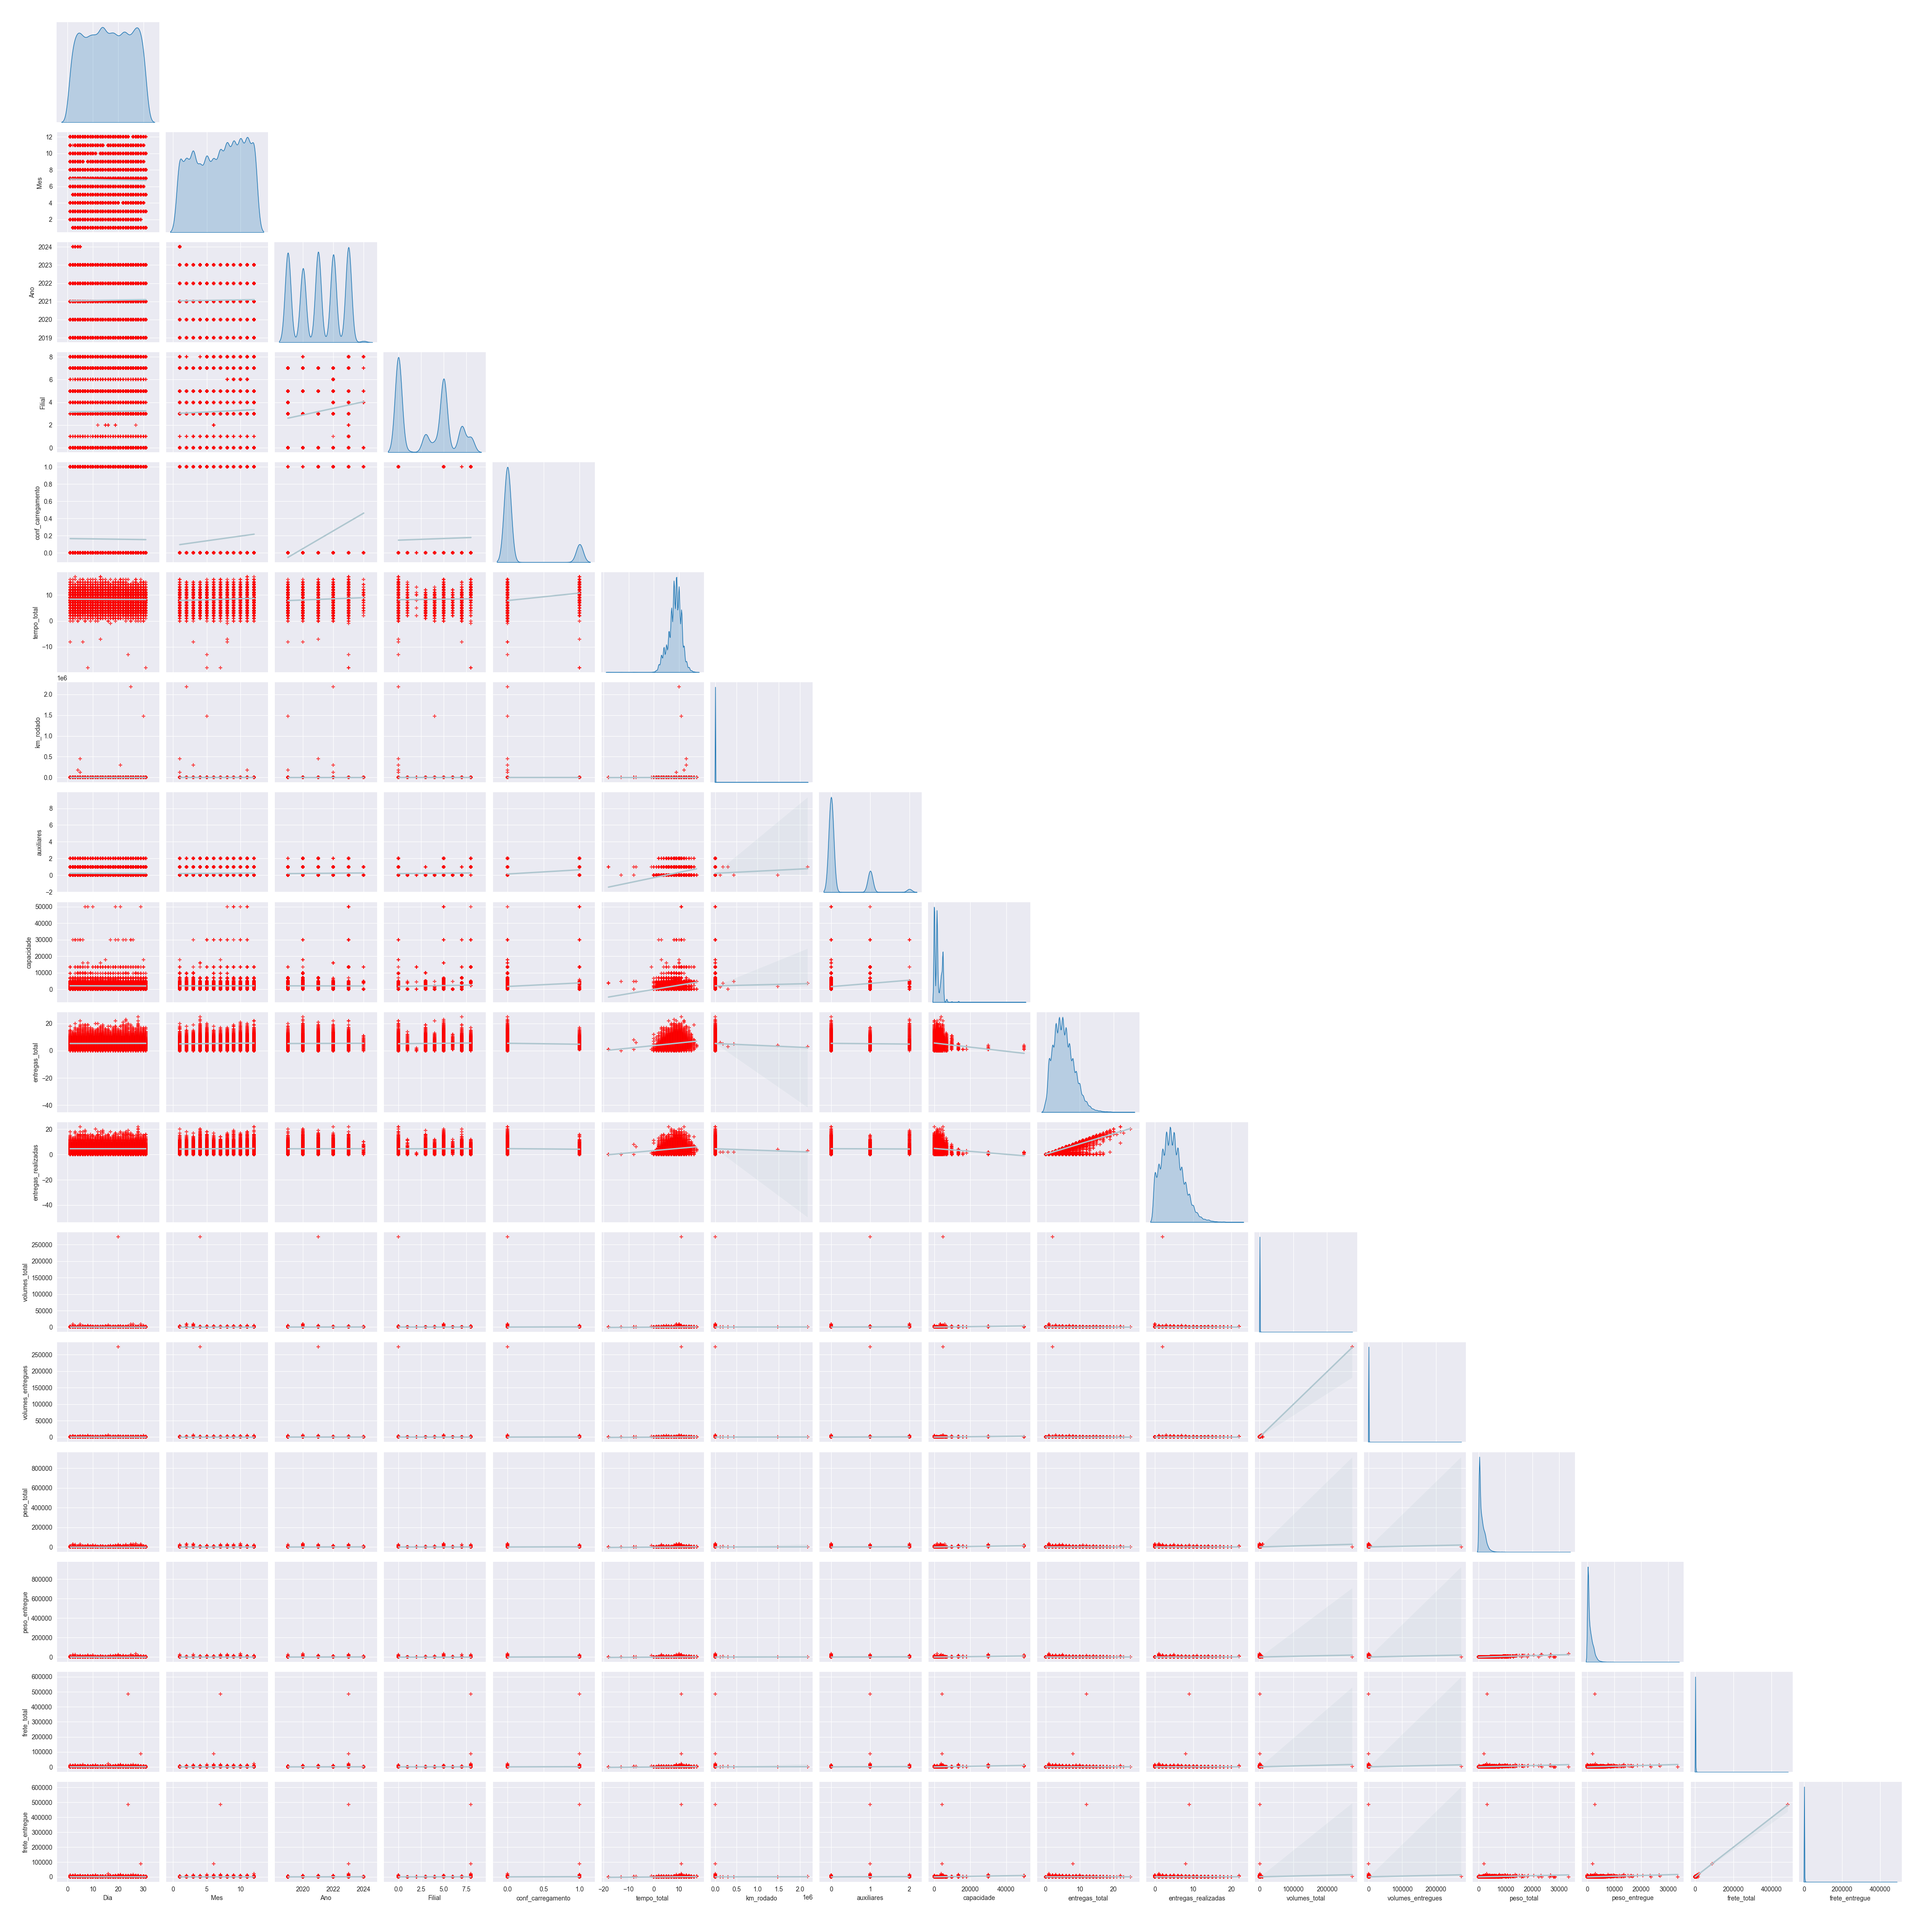
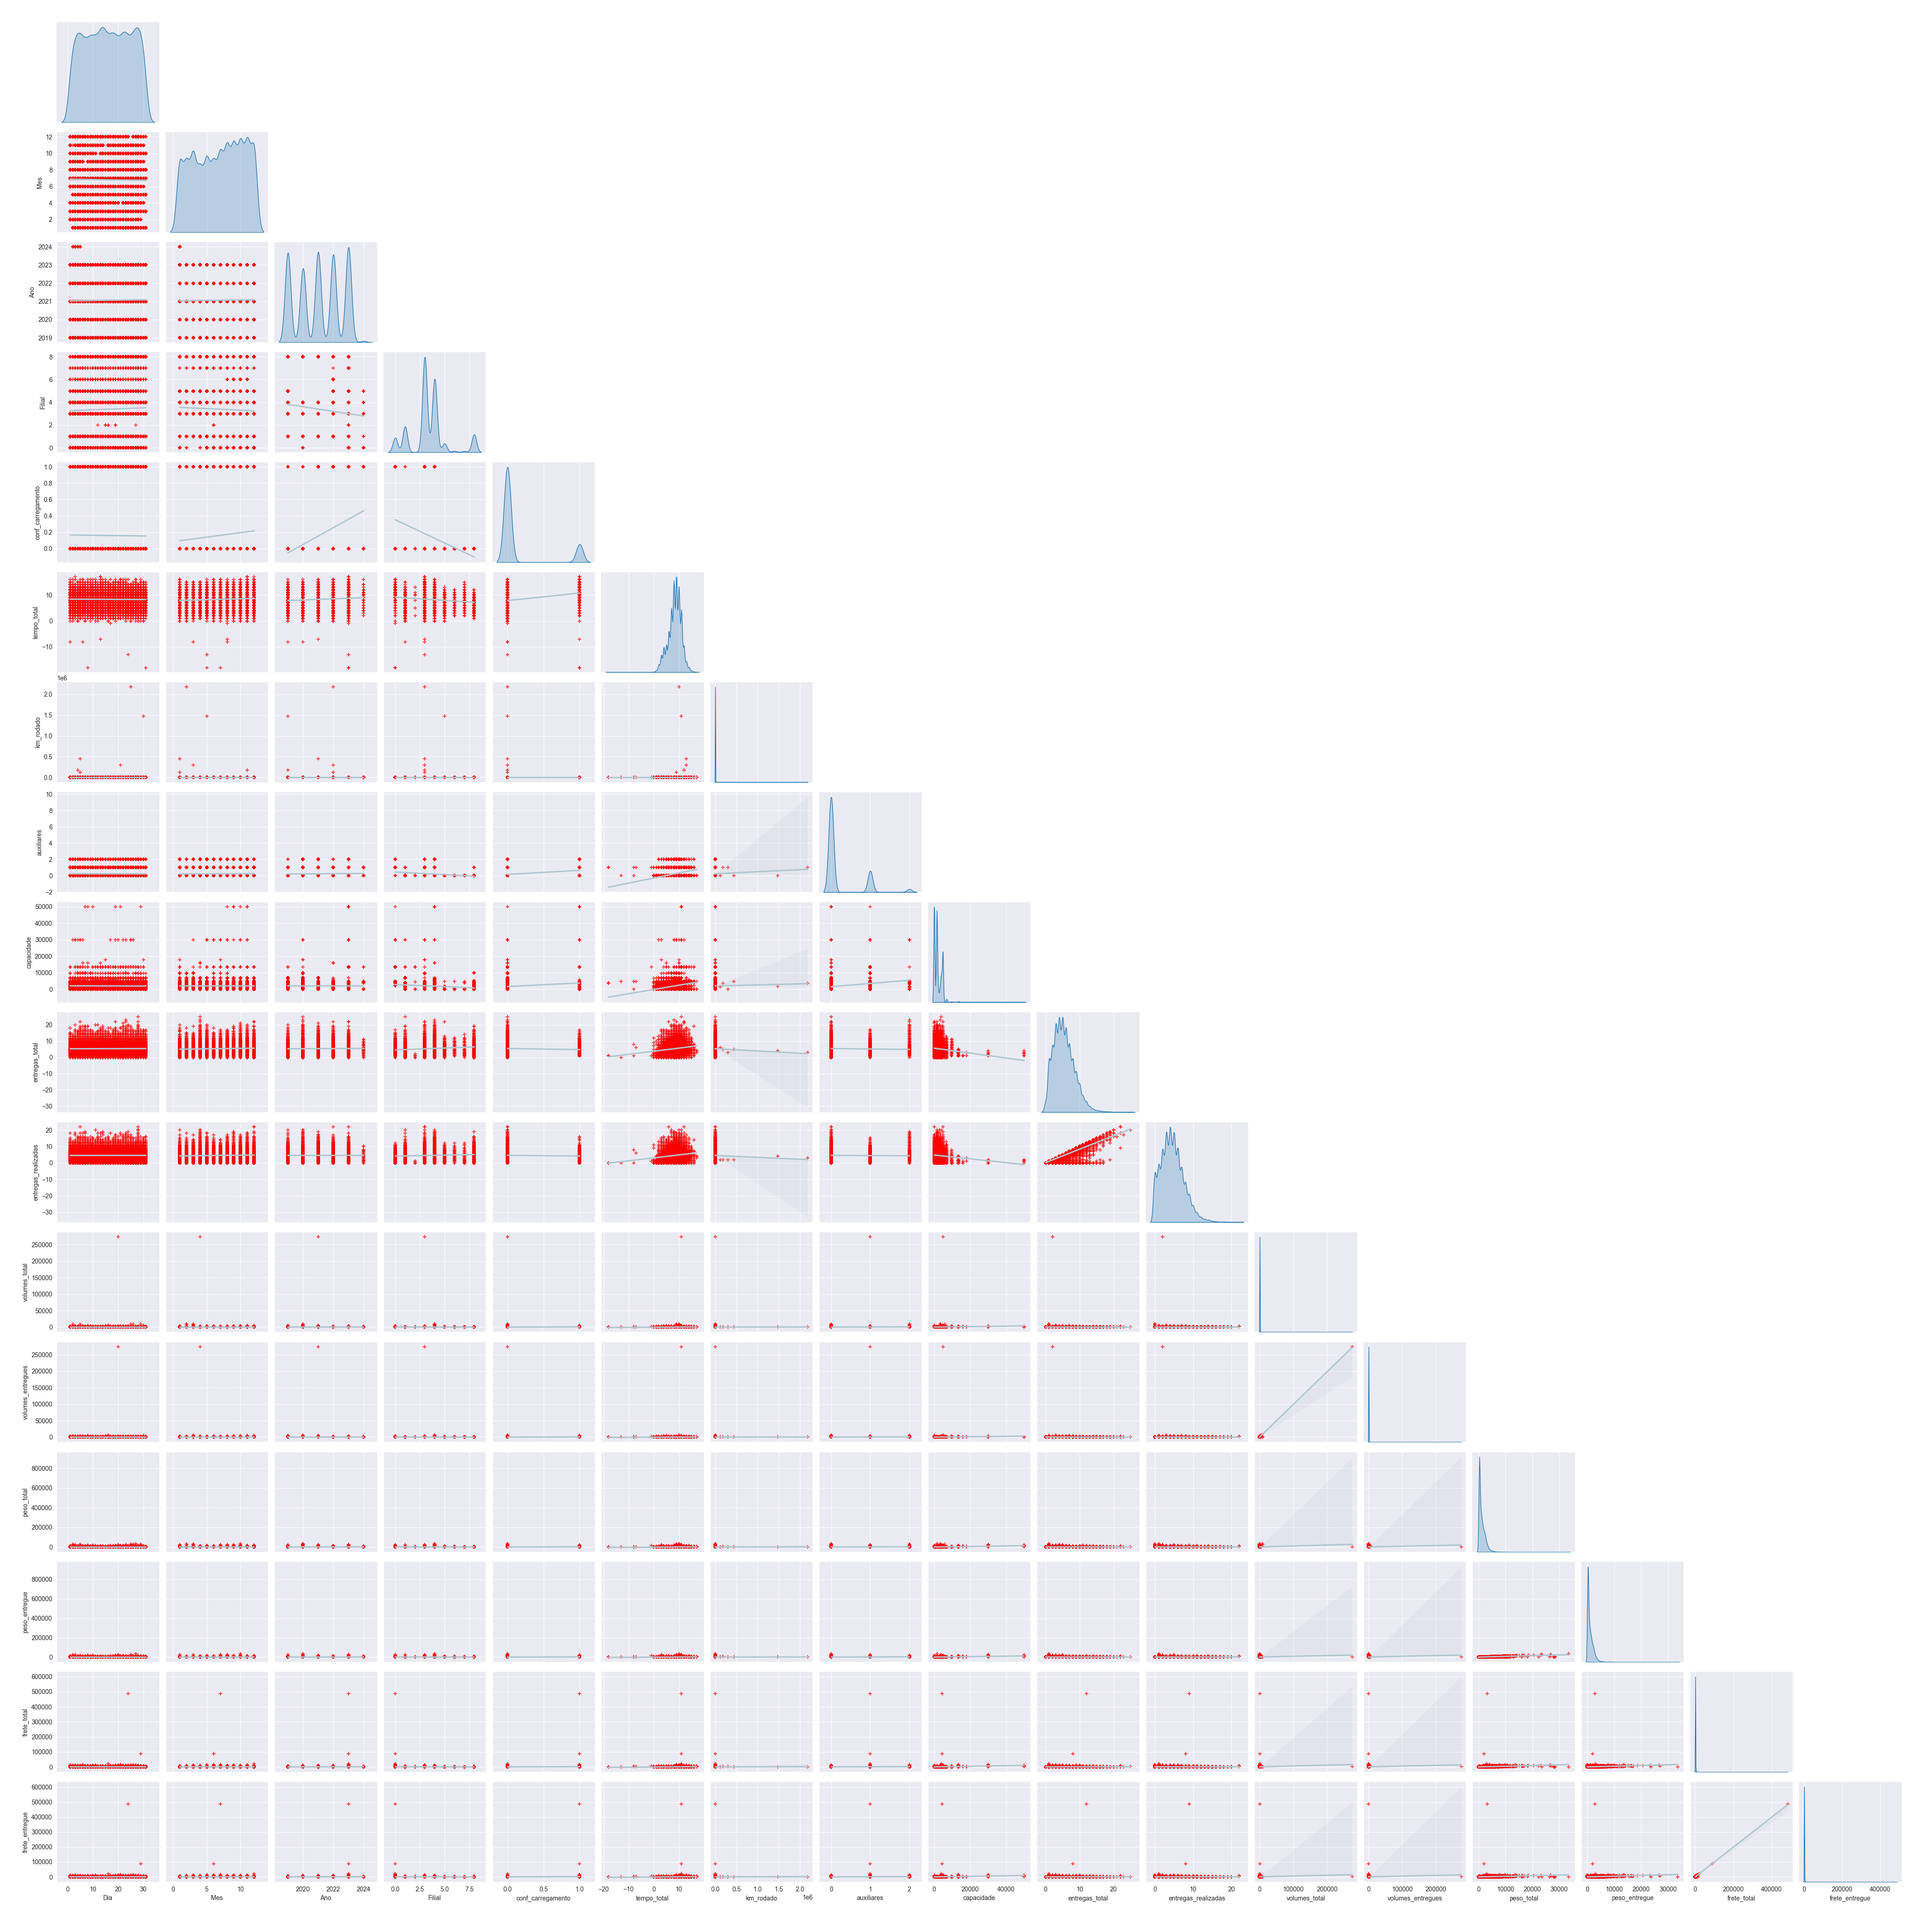
montagem de estrutura dos 3 casos do tcc

diff --git a/teste.py b/teste.py
@@ -30,7 +30,7 @@ def ler_sql_do_arquivo(nome_do_arquivo):
         return arquivo.read()
     
 # Lendo os comandos SQL dos arquivos
-sql_comando = ler_sql_do_arquivo("C:\\Users\\juare\\Desktop\\TCC\\Dados TCC Plus.sql")
+sql_comando = ler_sql_do_arquivo("C:\\Users\\juare\\Desktop\\TCC\\Dados TCC.sql")
 sql_comando1 = ler_sql_do_arquivo("C:\\Users\\juare\\Desktop\\TCC\\Dados TCC Plus.sql")
 sql_comando2 = ler_sql_do_arquivo("C:\\Users\\juare\\Desktop\\TCC\\Dados TCC Plus.sql")
 
@@ -203,7 +203,7 @@ def index():
 
 # Rota para visualizar o dashboard
 @teste.route('/dashboard_um')
-def dashboard():
+def dashboard_um():
     df = get_dataframe(sql_comando)
 
     #Data outliers
@@ -249,45 +249,45 @@ def dashboard():
     return render_template('dashboard_um.html', graficos=graficos, dados_texto=dados_texto)
 
 @teste.route('/dashboard_dois')
-def dashboard():
-    df = get_dataframe(sql_comando)
+def dashboard_dois():
+    df1 = get_dataframe(sql_comando1)
 
     #Data outliers
-    df[df.duplicated(keep='first')]
-    df.drop_duplicates(keep='first',inplace=True)
+    df1[df1.duplicated(keep='first')]
+    df1.drop_duplicates(keep='first',inplace=True)
 
     # Captura a saída de df.info()
     buffer = StringIO()
-    df.info(buf=buffer)
+    df1.info(buf=buffer)
     infos_variaveis = buffer.getvalue()
 
     dados_texto = {
-        'colunas': df.columns.tolist(),
-        'dados_originais': df.head(5).to_html(classes='table'),
+        'colunas': df1.columns.tolist(),
+        'dados_originais': df1.head(5).to_html(classes='table'),
         'infos_variaveis': infos_variaveis,
-        'shape': df.shape,
-        'describe': df.describe().to_html(classes='table'),
-        'limpeza': df.isnull().sum()
+        'shape': df1.shape,
+        'describe': df1.describe().to_html(classes='table'),
+        'limpeza': df1.isnull().sum()
     }
 
     graficos = {
-        'histograma': gerar_grafico(df, 'histograma', 'histograma_filial'),
-        'boxplot': gerar_grafico(df, 'boxplot', 'boxplot_filial'),
-        'displot': gerar_grafico(df, 'displot', 'displot_filial'),
-        'hist': gerar_grafico(df, 'hist', 'hist_filial'),
-        'hist_car': gerar_grafico(df, 'hist_car', 'hist_carregamento'),
-        'box_iqr': gerar_grafico(df, 'box_iqr', 'box_filial'),
-        'box_iqr_carre': gerar_grafico(df, 'box_iqr_carre', 'box_carre'),
-        'countplot_carre': gerar_grafico(df, 'countplot_carre', 'countplot'),
-        'countplot_filial' : gerar_grafico(df, 'countplot_filial', 'countplot_filial'),
-        'countplot_fil': gerar_grafico(df, 'countplot_fil', 'countplot_fil'),
-        'countplot_filiall': gerar_grafico(df, 'countplot_filiall', 'countplot_filiall'),
-        'scatterplot':  gerar_grafico(df, 'scatterplot', 'scatterplot'),
-        'boxplot_fc': gerar_grafico(df, 'boxplot_fc', 'boxplot_fc'),
-        'heatmap': gerar_grafico(df, 'heatmap', 'heatmap'),
-        'pairplot': gerar_grafico(df, 'pairplot', 'pairplot'),
-        'displot_filial_entrega': gerar_grafico(df, 'displot_filial_entrega', 'displot_filial_entrega'),
-        'histplot_filial_entrega': gerar_grafico(df, 'histplot_filial_entrega', 'histplot_filial_entrega'),
+        'histograma': gerar_grafico(df1, 'histograma', 'histograma_filial'),
+        'boxplot': gerar_grafico(df1, 'boxplot', 'boxplot_filial'),
+        'displot': gerar_grafico(df1, 'displot', 'displot_filial'),
+        'hist': gerar_grafico(df1, 'hist', 'hist_filial'),
+        'hist_car': gerar_grafico(df1, 'hist_car', 'hist_carregamento'),
+        'box_iqr': gerar_grafico(df1, 'box_iqr', 'box_filial'),
+        'box_iqr_carre': gerar_grafico(df1, 'box_iqr_carre', 'box_carre'),
+        'countplot_carre': gerar_grafico(df1, 'countplot_carre', 'countplot'),
+        'countplot_filial' : gerar_grafico(df1, 'countplot_filial', 'countplot_filial'),
+        'countplot_fil': gerar_grafico(df1, 'countplot_fil', 'countplot_fil'),
+        'countplot_filiall': gerar_grafico(df1, 'countplot_filiall', 'countplot_filiall'),
+        'scatterplot':  gerar_grafico(df1, 'scatterplot', 'scatterplot'),
+        'boxplot_fc': gerar_grafico(df1, 'boxplot_fc', 'boxplot_fc'),
+        'heatmap': gerar_grafico(df1, 'heatmap', 'heatmap'),
+        'pairplot': gerar_grafico(df1, 'pairplot', 'pairplot'),
+        'displot_filial_entrega': gerar_grafico(df1, 'displot_filial_entrega', 'displot_filial_entrega'),
+        'histplot_filial_entrega': gerar_grafico(df1, 'histplot_filial_entrega', 'histplot_filial_entrega'),
         
             
     }
@@ -295,45 +295,45 @@ def dashboard():
     return render_template('dashboard_dois.html', graficos=graficos, dados_texto=dados_texto)
 
 @teste.route('/dashboard_tres')
-def dashboard():
-    df = get_dataframe(sql_comando)
+def dashboard_tres():
+    df2 = get_dataframe(sql_comando2)
 
     #Data outliers
-    df[df.duplicated(keep='first')]
-    df.drop_duplicates(keep='first',inplace=True)
+    df2[df2.duplicated(keep='first')]
+    df2.drop_duplicates(keep='first',inplace=True)
 
     # Captura a saída de df.info()
     buffer = StringIO()
-    df.info(buf=buffer)
+    df2.info(buf=buffer)
     infos_variaveis = buffer.getvalue()
 
     dados_texto = {
-        'colunas': df.columns.tolist(),
-        'dados_originais': df.head(5).to_html(classes='table'),
+        'colunas': df2.columns.tolist(),
+        'dados_originais': df2.head(5).to_html(classes='table'),
         'infos_variaveis': infos_variaveis,
-        'shape': df.shape,
-        'describe': df.describe().to_html(classes='table'),
-        'limpeza': df.isnull().sum()
+        'shape': df2.shape,
+        'describe': df2.describe().to_html(classes='table'),
+        'limpeza': df2.isnull().sum()
     }
 
     graficos = {
-        'histograma': gerar_grafico(df, 'histograma', 'histograma_filial'),
-        'boxplot': gerar_grafico(df, 'boxplot', 'boxplot_filial'),
-        'displot': gerar_grafico(df, 'displot', 'displot_filial'),
-        'hist': gerar_grafico(df, 'hist', 'hist_filial'),
-        'hist_car': gerar_grafico(df, 'hist_car', 'hist_carregamento'),
-        'box_iqr': gerar_grafico(df, 'box_iqr', 'box_filial'),
-        'box_iqr_carre': gerar_grafico(df, 'box_iqr_carre', 'box_carre'),
-        'countplot_carre': gerar_grafico(df, 'countplot_carre', 'countplot'),
-        'countplot_filial' : gerar_grafico(df, 'countplot_filial', 'countplot_filial'),
-        'countplot_fil': gerar_grafico(df, 'countplot_fil', 'countplot_fil'),
-        'countplot_filiall': gerar_grafico(df, 'countplot_filiall', 'countplot_filiall'),
-        'scatterplot':  gerar_grafico(df, 'scatterplot', 'scatterplot'),
-        'boxplot_fc': gerar_grafico(df, 'boxplot_fc', 'boxplot_fc'),
-        'heatmap': gerar_grafico(df, 'heatmap', 'heatmap'),
-        'pairplot': gerar_grafico(df, 'pairplot', 'pairplot'),
-        'displot_filial_entrega': gerar_grafico(df, 'displot_filial_entrega', 'displot_filial_entrega'),
-        'histplot_filial_entrega': gerar_grafico(df, 'histplot_filial_entrega', 'histplot_filial_entrega'),
+        'histograma': gerar_grafico(df2, 'histograma', 'histograma_filial'),
+        'boxplot': gerar_grafico(df2, 'boxplot', 'boxplot_filial'),
+        'displot': gerar_grafico(df2, 'displot', 'displot_filial'),
+        'hist': gerar_grafico(df2, 'hist', 'hist_filial'),
+        'hist_car': gerar_grafico(df2, 'hist_car', 'hist_carregamento'),
+        'box_iqr': gerar_grafico(df2, 'box_iqr', 'box_filial'),
+        'box_iqr_carre': gerar_grafico(df2, 'box_iqr_carre', 'box_carre'),
+        'countplot_carre': gerar_grafico(df2, 'countplot_carre', 'countplot'),
+        'countplot_filial' : gerar_grafico(df2, 'countplot_filial', 'countplot_filial'),
+        'countplot_fil': gerar_grafico(df2, 'countplot_fil', 'countplot_fil'),
+        'countplot_filiall': gerar_grafico(df2, 'countplot_filiall', 'countplot_filiall'),
+        'scatterplot':  gerar_grafico(df2, 'scatterplot', 'scatterplot'),
+        'boxplot_fc': gerar_grafico(df2, 'boxplot_fc', 'boxplot_fc'),
+        'heatmap': gerar_grafico(df2, 'heatmap', 'heatmap'),
+        'pairplot': gerar_grafico(df2, 'pairplot', 'pairplot'),
+        'displot_filial_entrega': gerar_grafico(df2, 'displot_filial_entrega', 'displot_filial_entrega'),
+        'histplot_filial_entrega': gerar_grafico(df2, 'histplot_filial_entrega', 'histplot_filial_entrega'),
         
             
     }
